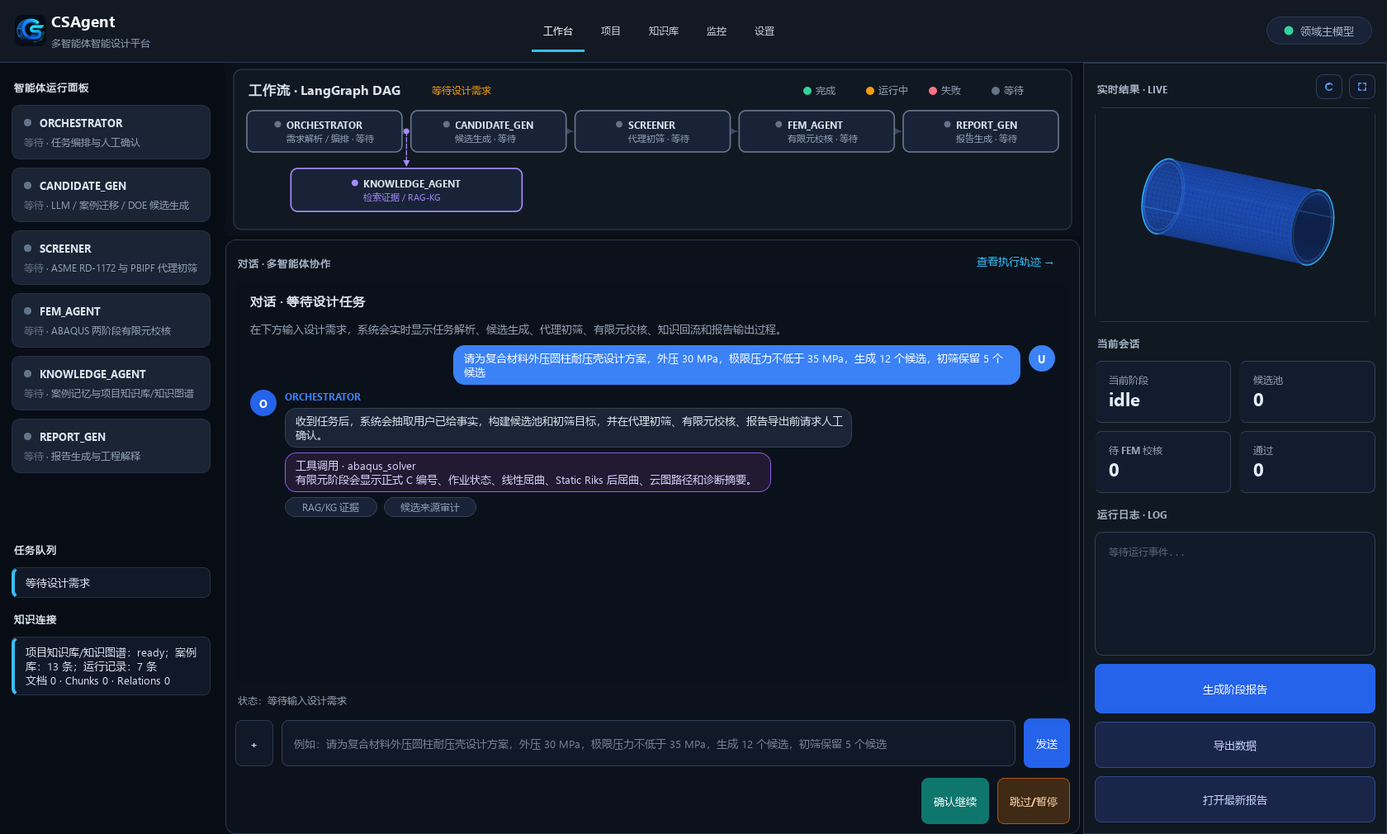
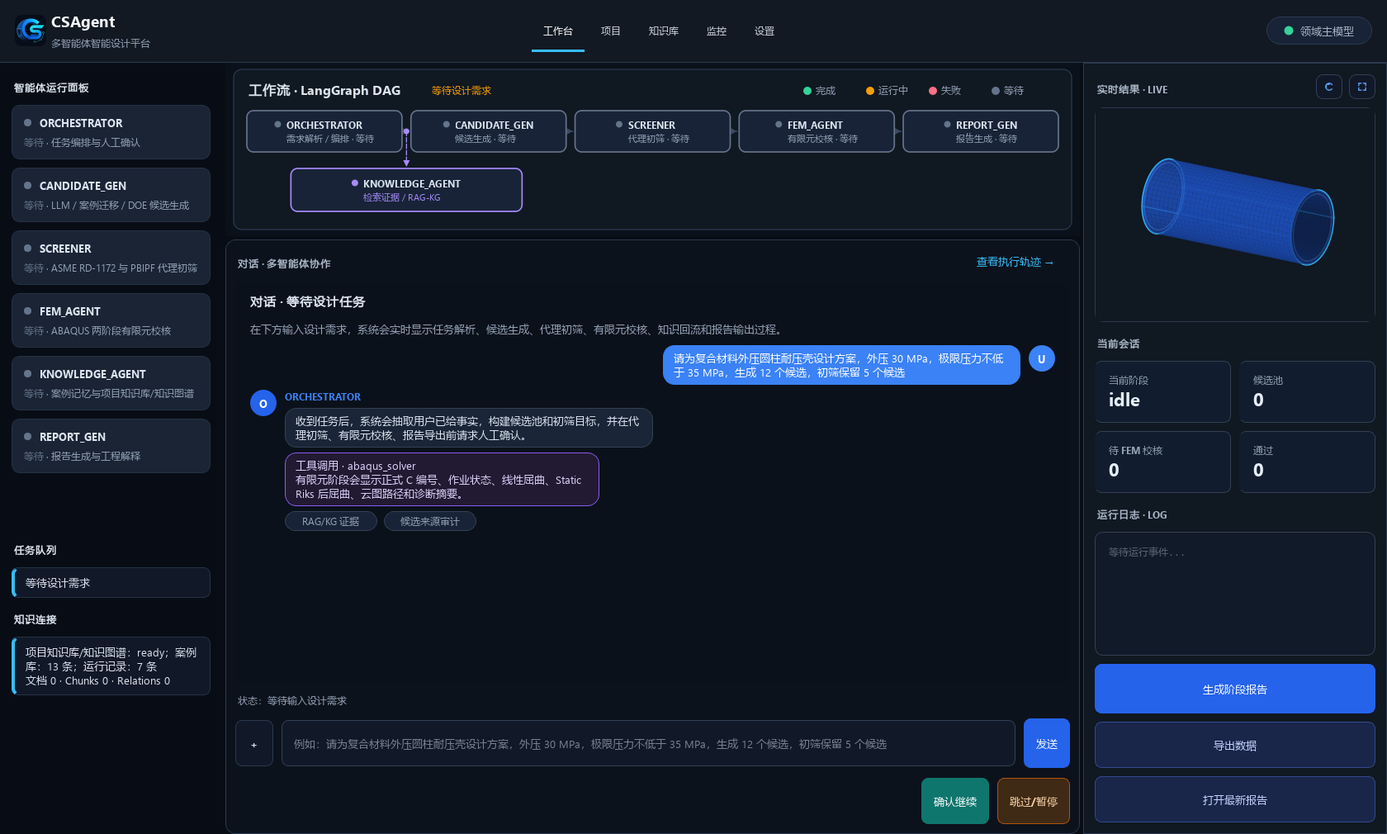
校准知识库状态与工作台展示

diff --git a/gui/knowledge_widget.py b/gui/knowledge_widget.py
@@ -682,12 +682,15 @@ class KnowledgeWidget(QWidget):
         doc_count = int(status.get("document_count", 0) or status.get("structured_document_count", 0) or 0)
         chunk_count = int(status.get("rag_chunk_count", 0) or 0)
         vector_count = int(status.get("vector_chunk_count", 0) or 0)
-        vector_ready = bool(status.get("vector_ready") or vector_count)
+        vector_status = str(status.get("vector_status") or "")
+        vector_ready = bool(status.get("vector_ready")) and vector_status == "success"
         relation_count = int(status.get("kg_relation_count", 0) or 0)
         parser = (status.get("last_ingestion") or {}).get("parser_backend") if isinstance(status.get("last_ingestion"), dict) else ""
         self.store_pill.set_state(f"知识库 {doc_count} 文档", "success" if ready else "pending")
         self.rag_pill.set_state(f"RAG {chunk_count} chunks", "success" if chunk_count else "pending")
-        self.vector_pill.set_state(f"Vector {vector_count} chunks", "success" if vector_ready else "pending")
+        vector_label = f"Vector {vector_count} chunks" if vector_count else f"Vector {vector_status or 'pending'}"
+        vector_state = "success" if vector_ready else ("warning" if vector_status in {"warning", "failed"} else "pending")
+        self.vector_pill.set_state(vector_label, vector_state)
         self.kg_pill.set_state(f"KG {relation_count} relations", "success" if relation_count else "pending")
         self.parser_pill.set_state(str(parser or "解析器待调用"), "success" if parser else "pending")
 
@@ -706,13 +709,18 @@ class KnowledgeWidget(QWidget):
             "<div style='display:grid;grid-template-columns:repeat(2,1fr);gap:8px;'>",
             self._summary_card("资料", f"{status.get('document_count', 0)} 文档"),
             self._summary_card("RAG", f"{status.get('rag_chunk_count', 0)} 文本块"),
-            self._summary_card("Vector", f"{status.get('vector_chunk_count', 0)} 向量块"),
+            self._summary_card(
+                "Vector",
+                f"{status.get('vector_chunk_count', 0)} 向量块",
+                f"后端 {status.get('vector_backend') or '-'}；状态 {status.get('vector_status') or '-'}",
+            ),
             self._summary_card("KG", f"{status.get('kg_entity_count', 0)} 实体 / {status.get('kg_relation_count', 0)} 关系"),
             self._summary_card("分块", f"{chunk_size} token / overlap {overlap}"),
             self._summary_card("案例", f"会话 {len(archive_cases)} / 正式 {len(formal_cases)}"),
             self._summary_card("FEM", f"ODB {odb_count} / 云图 {vis_count}"),
             "</div>",
             f"<p><b>最后入库：</b>{escape(str(last.get('title') or '-'))}；<b>解析器：</b>{escape(str(last.get('parser_backend') or '-'))}</p>",
+            f"<p><b>向量索引：</b>{escape(str(status.get('vector_status') or '-'))}；{escape(str(status.get('vector_message') or '-'))}</p>",
             f"<p><b>检索验证：</b>{escape(str(verification.get('message') or '-'))}</p>",
             f"<p><b>Manifest：</b>{escape(str(status.get('manifest_path') or '-'))}</p>",
         ]
@@ -723,7 +731,7 @@ class KnowledgeWidget(QWidget):
             )
         self.summary_browser.setHtml("".join(html))
 
-    def _summary_card(self, title: str, value: str) -> str:
+    def _summary_card(self, title: str, value: str, detail: str = "") -> str:
         if self.theme == "light":
             border = "#c8d2df"
             background = "#f8fafc"
@@ -734,11 +742,12 @@ class KnowledgeWidget(QWidget):
             background = "#111a28"
             muted = "#64748b"
             foreground = "#dbe4ef"
+        detail_html = f"<br><span style='color:{muted};font-size:11px;'>{escape(detail)}</span>" if detail else ""
         return (
             f"<div style='border:1px solid {border};border-radius:8px;padding:8px 10px;background:{background};'>"
             f"<span style='color:{muted};font-size:12px;'>{escape(title)}</span><br>"
             f"<span style='font-size:18px;font-weight:800;color:{foreground};'>{escape(value)}</span>"
-            "</div>"
+            f"{detail_html}</div>"
         )
 
     def _html_card_style(self) -> str:

diff --git a/core/knowledge_ingestion.py b/core/knowledge_ingestion.py
@@ -492,7 +492,16 @@ class KnowledgeIngestionService:
             retrieval_verification=retrieval_verification,
             steps=steps,
         )
-        self._write_manifest(last_result=result)
+        self._write_manifest(
+            last_result=result,
+            vector_stats={
+                "status": write_stats["vector_status"],
+                "message": write_stats["vector_message"],
+                "detail": write_stats["vector_detail"],
+                "count": write_stats["vector_count"],
+                "backend": write_stats["vector_backend"],
+            },
+        )
         return result
 
     def status(self) -> dict[str, Any]:
@@ -592,8 +601,9 @@ class KnowledgeIngestionService:
                 str(verification.get("detail") or ""),
             ),
         ]
-        self._write_manifest()
+        self._write_manifest(vector_stats=vector_stats)
         manifest = self._load_manifest()
+        manifest.update(self._vector_manifest_fields(vector_stats))
         manifest["pipeline"] = [asdict(step) for step in steps]
         manifest["last_reindex"] = {
             "updated_at": _utc_now(),
@@ -1511,7 +1521,26 @@ class KnowledgeIngestionService:
             result.append(relation)
         return result
 
-    def _write_manifest(self, last_result: IngestionResult | None = None) -> None:
+    def _vector_manifest_fields(self, vector_stats: dict[str, Any] | None = None) -> dict[str, Any]:
+        """返回顶层向量索引状态字段。"""
+
+        stats = vector_stats if isinstance(vector_stats, dict) else {}
+        status = str(stats.get("status") or "pending")
+        count = int(stats.get("count") or 0)
+        return {
+            "vector_chunk_count": count,
+            "vector_ready": bool(status == "success" and count > 0),
+            "vector_status": status,
+            "vector_message": str(stats.get("message") or "等待写入向量索引"),
+            "vector_detail": str(stats.get("detail") or ""),
+            "vector_backend": str(stats.get("backend") or ""),
+        }
+
+    def _write_manifest(
+        self,
+        last_result: IngestionResult | None = None,
+        vector_stats: dict[str, Any] | None = None,
+    ) -> None:
         documents = _read_jsonl(self.documents_path)
         chunks = _read_jsonl(self.chunks_path)
         entities = _read_jsonl(self.entities_path)
@@ -1521,14 +1550,13 @@ class KnowledgeIngestionService:
             **self._base_manifest(),
             "document_count": len(documents),
             "rag_chunk_count": len(chunks),
-            "vector_chunk_count": len(chunks) if self.vector_enabled else 0,
-            "vector_ready": bool(self.vector_enabled and chunks),
             "kg_entity_count": len(entities),
             "kg_relation_count": len(relations),
             "structured_document_count": len(documents),
             "structured_block_count": len(blocks),
             "markdown_document_count": len(list(self.markdown_dir.glob("*.md"))) if self.markdown_dir.exists() else 0,
             "updated_at": _utc_now(),
+            **self._vector_manifest_fields(vector_stats),
         }
         if last_result is not None:
             manifest["last_ingestion"] = {
@@ -1580,6 +1608,10 @@ class KnowledgeIngestionService:
             "rag_chunk_count": 0,
             "vector_chunk_count": 0,
             "vector_ready": False,
+            "vector_status": "pending",
+            "vector_message": "等待写入向量索引",
+            "vector_detail": "",
+            "vector_backend": "",
             "kg_entity_count": 0,
             "kg_relation_count": 0,
             "structured_document_count": 0,

diff --git a/tests/test_knowledge_ingestion.py b/tests/test_knowledge_ingestion.py
@@ -16,6 +16,10 @@ def test_runtime_knowledge_empty_status_exposes_pipeline_contract(tmp_path) -> N
     assert status["rag_chunk_count"] == 0
     assert status["vector_chunk_count"] == 0
     assert status["vector_ready"] is False
+    assert status["vector_status"] == "pending"
+    assert status["vector_message"] == "等待写入向量索引"
+    assert status["vector_detail"] == ""
+    assert status["vector_backend"] == ""
     assert status["kg_entity_count"] == 0
     assert status["kg_relation_count"] == 0
     assert status["chunk_token_size"] == 64
@@ -82,6 +86,38 @@ def test_runtime_knowledge_ingestion_builds_chunks_kg_vector_index_and_dedupes(t
     relations = [json.loads(line) for line in service.relations_path.read_text(encoding="utf-8").splitlines() if line.strip()]
     chunk_ids = {item["chunk_id"] for item in chunks}
     assert all(item["evidence_chunk_id"] in chunk_ids for item in relations)
+
+
+def test_runtime_knowledge_ingestion_marks_vector_status_warning_when_backend_fails(tmp_path, monkeypatch) -> None:
+    monkeypatch.setenv("CSDM_cph_USE_HASH_EMBEDDING", "1")
+
+    class BrokenRAGEngine:
+        def __init__(self, *args, **kwargs) -> None:
+            raise RuntimeError("vector backend unavailable")
+
+    source = tmp_path / "pressure_hull_vector_failure.md"
+    source.write_text(
+        "\n\n".join(
+            [
+                "# 外压耐压壳向量状态",
+                "T700 composite pressure hull under external pressure uses ASME RD-1172 for buckling checks.",
+                "PBIPF and Abaqus Riks provide ultimate pressure verification.",
+            ]
+        ),
+        encoding="utf-8",
+    )
+
+    monkeypatch.setattr("core.knowledge_ingestion.RAGEngine", BrokenRAGEngine)
+    service = KnowledgeIngestionService(base_dir=tmp_path / "knowledge", chunk_token_size=48, chunk_overlap_tokens=8)
+    result = service.ingest_file(source)
+
+    manifest = json.loads(service.manifest_path.read_text(encoding="utf-8"))
+    assert result.success
+    assert manifest["vector_status"] == "warning"
+    assert manifest["vector_ready"] is False
+    assert manifest["vector_chunk_count"] == 0
+    assert manifest["vector_backend"] == "unavailable"
+    assert manifest["vector_message"] == "向量索引写入失败"
 
 
 def test_runtime_knowledge_ingestion_emits_step_progress(tmp_path, monkeypatch) -> None:

diff --git a/gui/chat_widget.py b/gui/chat_widget.py
@@ -166,18 +166,45 @@ class ChatWidget(QWidget):
         target_min = min(max(min_width, 180), target_max)
         return target_max, target_min
 
+    @staticmethod
+    def _is_cjk(char: str) -> bool:
+        return "\u3400" <= char <= "\u9fff"
+
+    def _display_units(self, text: str) -> float:
+        units = 0.0
+        for char in text:
+            if char.isspace():
+                units += 0.25
+            elif self._is_cjk(char):
+                units += 1.0
+            elif char.isascii():
+                units += 0.58
+            else:
+                units += 0.85
+        return units
+
+    def _token_width(self, token: str) -> int:
+        metrics = self.fontMetrics()
+        if any(self._is_cjk(char) for char in token):
+            cjk_unit = max(metrics.horizontalAdvance("汉"), metrics.averageCharWidth())
+            return min(metrics.horizontalAdvance(token), int(cjk_unit * 10))
+        return metrics.horizontalAdvance(token)
+
     def _content_width(self, text: str, target_max: int, target_min: int) -> int:
         metrics = self.fontMetrics()
         value = str(text)
-        lines = value.splitlines() or [value]
-        longest_line = max((metrics.horizontalAdvance(line) for line in lines), default=0)
         separators = "，。；;、,，：:（）()[]【】"
         token_source = value
         for separator in separators:
             token_source = token_source.replace(separator, " ")
         tokens = [item for item in token_source.split() if item]
-        longest_token = max((metrics.horizontalAdvance(item) for item in tokens), default=0)
-        natural = max(longest_line, longest_token) + 30
+        longest_token = max((self._token_width(item) for item in tokens), default=0)
+        units_by_line = [self._display_units(line) for line in value.splitlines() if line.strip()]
+        display_units = max(units_by_line, default=self._display_units(value))
+        cjk_unit = max(metrics.horizontalAdvance("汉"), metrics.averageCharWidth())
+        line_units = min(56, max(14, int(display_units * 0.62)))
+        estimated_line = int(line_units * cjk_unit + 30)
+        natural = max(estimated_line, longest_token + 30)
         if natural >= target_max:
             return target_max
         return max(target_min, min(target_max, natural))

diff --git a/tests/test_knowledge_widget.py b/tests/test_knowledge_widget.py
@@ -27,6 +27,10 @@ class FakeKnowledge:
             "rag_chunk_count": 9,
             "vector_ready": True,
             "vector_chunk_count": 9,
+            "vector_status": "success",
+            "vector_message": "向量索引写入 9 个文本块",
+            "vector_detail": "collection=csdm_cph_project_knowledge，backend=hash_embedding",
+            "vector_backend": "hash_embedding",
             "kg_entity_count": 7,
             "kg_relation_count": 12,
             "manifest_path": "knowledge/runtime/manifest.json",
@@ -139,6 +143,36 @@ def test_knowledge_widget_renders_runtime_pipeline_and_evidence(monkeypatch, tmp
         assert widget.document_table.rowCount() == 1
         assert len(widget.graph_view.relations) == 1
         assert widget.graph_view.relations[0]["source"] == "Initial Imperfection"
+    finally:
+        widget.close()
+        app.processEvents()
+
+
+def test_knowledge_widget_vector_pill_follows_actual_vector_status(monkeypatch, tmp_path) -> None:
+    global _DOCS_PATH
+    _DOCS_PATH = tmp_path / "documents.jsonl"
+    _DOCS_PATH.write_text("", encoding="utf-8")
+
+    monkeypatch.setattr("gui.knowledge_widget.DomainKnowledgeBase", FakeKnowledge)
+    monkeypatch.setattr("gui.knowledge_widget.KnowledgeIngestionService", FakeIngestionService)
+
+    app = _app()
+    widget = KnowledgeWidget()
+    try:
+        widget._update_status_pills(
+            {
+                "ready": True,
+                "document_count": 1,
+                "rag_chunk_count": 4,
+                "vector_ready": False,
+                "vector_chunk_count": 0,
+                "vector_status": "warning",
+                "kg_relation_count": 2,
+            }
+        )
+
+        assert widget.vector_pill.text == "Vector warning"
+        assert widget.vector_pill.status == "warning"
     finally:
         widget.close()
         app.processEvents()

diff --git a/scripts/release_audit.py b/scripts/release_audit.py
@@ -214,6 +214,11 @@ class ReleaseAudit:
             "document_count",
             "rag_chunk_count",
             "vector_chunk_count",
+            "vector_ready",
+            "vector_status",
+            "vector_message",
+            "vector_detail",
+            "vector_backend",
             "kg_entity_count",
             "kg_relation_count",
             "chunk_token_size",

diff --git a/tests/test_case_assets.py b/tests/test_case_assets.py
@@ -62,5 +62,5 @@ def test_case_library_numbering_and_fem_artifacts_are_consistent() -> None:
 def test_case_library_contains_no_mojibake_placeholders() -> None:
     for path, _case_record in _load_cases():
         text = path.read_text(encoding="utf-8")
-        assert "????" not in text
+        assert "?" * 4 not in text
         assert "\ufffd" not in text

diff --git a/docs/接口约定.md b/docs/接口约定.md
@@ -79,8 +79,13 @@
 - `vector_chroma_dir`: 项目知识向量索引目录，当前为 `knowledge/chroma_db`
 - `vector_collection_name`: 项目知识向量 collection，当前为 `csdm_cph_project_knowledge`
 - `vector_top_k_multiplier`: 向量候选召回倍数，融合去重后再截断为 `top_k`
+- `vector_ready`: 向量 collection 实际写入成功且写入数量大于 0 时为 `true`
+- `vector_status`: 向量索引真实状态，取值为 `pending`、`success`、`warning` 或 `failed`
+- `vector_message`: 面向 GUI 和审计的向量索引状态摘要
+- `vector_detail`: 向量后端、目录或失败原因摘要
+- `vector_backend`: 实际使用的嵌入后端，失败时为 `unavailable`
 
-资料入库入口为 `core.knowledge_ingestion.KnowledgeIngestionService.ingest_file(path)`。该接口接收用户上传资料路径，返回 `IngestionResult`，字段包含 `document_id`、`parser_backend`、`markdown_path`、`chunk_count`、`entity_count`、`relation_count`、`duplicate_chunk_count`、`retrieval_verification` 和五阶段流水线状态。五个阶段为 MinerU / Docling 文档解析、语义分块、BGE-M3 向量化索引、Neo4j 实体/关系抽取、检索验证 / 证据引用。文件类型契约由 `SUPPORTED_INGEST_SUFFIXES` 定义，GUI 文件选择器使用同文件的 `SUPPORTED_QT_FILE_FILTER`，避免 GUI 与解析器支持范围漂移。PDF、DOCX、PPTX 和图片优先调用 MinerU / Docling；外部解析器不可用时，PDF/DOCX/PPTX 尝试文本层解析，图片保留资料元数据。Markdown、文本、JSON/YAML/TOML/INI、CSV、TSV、XLSX/XLSM、Abaqus 输入、子程序、日志、状态和消息文件由本项目解析器转换为 Markdown。ODB、SIM、CAE 等工程二进制文件只写入可检索元数据，内部场变量和云图由 FEM 可视化链路读取。文档编号由文件 SHA256 生成；同一文件重复入库替换同一文档记录。RAG 文本块按 `content_hash` 去重，`chunk_token_size`、`chunk_overlap_tokens` 和 `min_chunk_tokens` 共同控制文本块窗口、重叠上下文和小块合并；去重后的 chunk 写入 `rag_chunks.jsonl`，并同步重建项目知识向量 collection；KG 关系只指向去重后保留的 chunk。检索验证阶段检查当前资料 chunk 是否可作为命中证据、图谱关系引用是否指向有效 chunk，并把 `evidence_chunks`、`evidence_relations`、命中数和异常引用列表写入 `retrieval_verification`。
+资料入库入口为 `core.knowledge_ingestion.KnowledgeIngestionService.ingest_file(path)`。该接口接收用户上传资料路径，返回 `IngestionResult`，字段包含 `document_id`、`parser_backend`、`markdown_path`、`chunk_count`、`entity_count`、`relation_count`、`duplicate_chunk_count`、`retrieval_verification` 和五阶段流水线状态。五个阶段为 MinerU / Docling 文档解析、语义分块、BGE-M3 向量化索引、Neo4j 实体/关系抽取、检索验证 / 证据引用。文件类型契约由 `SUPPORTED_INGEST_SUFFIXES` 定义，GUI 文件选择器使用同文件的 `SUPPORTED_QT_FILE_FILTER`，避免 GUI 与解析器支持范围漂移。PDF、DOCX、PPTX 和图片优先调用 MinerU / Docling；外部解析器不可用时，PDF/DOCX/PPTX 尝试文本层解析，图片保留资料元数据。Markdown、文本、JSON/YAML/TOML/INI、CSV、TSV、XLSX/XLSM、Abaqus 输入、子程序、日志、状态和消息文件由本项目解析器转换为 Markdown。ODB、SIM、CAE 等工程二进制文件只写入可检索元数据，内部场变量和云图由 FEM 可视化链路读取。文档编号由文件 SHA256 生成；同一文件重复入库替换同一文档记录。RAG 文本块按 `content_hash` 去重，`chunk_token_size`、`chunk_overlap_tokens` 和 `min_chunk_tokens` 共同控制文本块窗口、重叠上下文和小块合并；去重后的 chunk 写入 `rag_chunks.jsonl`，并同步重建项目知识向量 collection；`vector_ready` 由实际向量写入结果驱动，向量后端失败时保留文本和 KG 检索但 GUI 不显示绿色向量状态；KG 关系只指向去重后保留的 chunk。检索验证阶段检查当前资料 chunk 是否可作为命中证据、图谱关系引用是否指向有效 chunk，并把 `evidence_chunks`、`evidence_relations`、命中数和异常引用列表写入 `retrieval_verification`。
 
 知识库维护入口为 `KnowledgeIngestionService.rebuild_indexes()` 和 `KnowledgeIngestionService.export_snapshot(path=None)`。`rebuild_indexes()` 复用当前已解析文档、结构化块和去重 RAG 文本块，重建向量 collection、实体关系、KG 统计、manifest 和最近检索验证状态，不重新解析原始文件。`export_snapshot()` 默认写入 `knowledge/runtime/snapshots/knowledge_snapshot_<timestamp>.json`，内容包含 manifest、文档、结构化块、RAG 文本块、实体、关系和 KG 统计。GUI “知识库”页的“重建索引”和“导出快照”按钮分别调用这两个入口；按钮状态和流水线状态由后台 Worker 更新。
 

diff --git a/docs/项目全流程梳理.md b/docs/项目全流程梳理.md
@@ -248,7 +248,7 @@ GUI 报告预览不修改报告内容，不调用 LLM，只显示 `ReportGenAgen
 
 用户在 GUI “知识库”页上传资料或批量选择资料后，`KnowledgeIngestionService` 将资料复制到 `uploads/` 并计算文件 SHA256。文档编号使用 `DOC_<sha256前12位>`，同一资料重复入库会替换同一文档记录，不生成虚假新编号。PDF、DOCX、PPTX 和图片优先调用 MinerU，失败后尝试 Docling；PDF、DOCX、PPTX 继续尝试文本层解析，图片在外部解析器不可用时保留图片元数据。文本、Markdown、JSON/YAML/TOML/INI、CSV、TSV、XLSX/XLSM、Abaqus 输入、子程序、日志、状态和消息文件由本项目解析器转换为 Markdown。ODB、SIM、CAE 等工程二进制文件进入可检索元数据索引，内部场变量和云图仍由有限元结果可视化链路读取。GUI 文件选择器使用 `core.knowledge_ingestion.SUPPORTED_QT_FILE_FILTER`，与核心解析器支持类型保持同源。入库服务在文档解析、语义分块、向量化索引、实体/关系抽取和检索验证 / 证据引用阶段发出进度事件；后台 Worker 将事件转发给 GUI，知识库页的流水线卡片按真实阶段实时显示运行、成功、警告和失败状态。
 
-解析后的 Markdown 进入结构化文本块生成。RAG 分块使用 `config/app_config.yaml` 中的 `chunk_token_size`、`chunk_overlap_tokens` 和 `min_chunk_tokens`；token 计数优先使用 `tiktoken`，不可用时使用中英文混合估算。完全相同的 RAG 文本块按 `content_hash` 去重；去重后的 chunk 写入 JSONL 文本索引，并同步写入 ChromaDB 项目知识 collection。向量索引默认使用 `rag.embedding_model=BAAI/bge-m3` 和本地缓存；本地模型不可用且 `allow_hash_fallback=true` 时使用哈希嵌入回退，流水线状态会记录实际后端。KG 使用领域词典抽取材料、结构、失效模式、制造工艺、公式和验证方法实体，写出 `entities.jsonl`、`relations.jsonl` 和 `kg_stats.json`。新资料入库时，已有资料的 RAG 文本块、实体和关系继续保留；同一资料重复入库时按文档编号替换该资料旧记录，避免重复堆积。检索验证阶段会构造当前资料的工程检索词，检查当前资料 chunk 能进入命中结果、图谱关系的 `evidence_chunk_id` 指向去重后有效 chunk，并把 `retrieval_verification`、证据 chunk 样本和关系样本写入 manifest。尚未入库任何资料时，知识服务仍返回完整状态契约：0 文档、0 chunk、0 实体关系、分块 token、overlap、`content_hash` 去重字段和五阶段 pending 流水线，供 GUI 和发布审计准确展示空库状态。
+解析后的 Markdown 进入结构化文本块生成。RAG 分块使用 `config/app_config.yaml` 中的 `chunk_token_size`、`chunk_overlap_tokens` 和 `min_chunk_tokens`；token 计数优先使用 `tiktoken`，不可用时使用中英文混合估算。完全相同的 RAG 文本块按 `content_hash` 去重；去重后的 chunk 写入 JSONL 文本索引，并同步写入 ChromaDB 项目知识 collection。向量索引默认使用 `rag.embedding_model=BAAI/bge-m3` 和本地缓存；本地模型不可用且 `allow_hash_fallback=true` 时使用哈希嵌入回退，流水线状态会记录实际后端。`vector_ready` 只在实际 collection 写入成功且写入数量大于 0 时为真；向量后端不可用时保留 JSONL/BM25 和 KG 检索，manifest 写入 `vector_status=warning`、`vector_backend=unavailable` 和失败摘要，GUI 以黄色状态灯显示。KG 使用领域词典抽取材料、结构、失效模式、制造工艺、公式和验证方法实体，写出 `entities.jsonl`、`relations.jsonl` 和 `kg_stats.json`。新资料入库时，已有资料的 RAG 文本块、实体和关系继续保留；同一资料重复入库时按文档编号替换该资料旧记录，避免重复堆积。检索验证阶段会构造当前资料的工程检索词，检查当前资料 chunk 能进入命中结果、图谱关系的 `evidence_chunk_id` 指向去重后有效 chunk，并把 `retrieval_verification`、证据 chunk 样本和关系样本写入 manifest。尚未入库任何资料时，知识服务仍返回完整状态契约：0 文档、0 chunk、0 实体关系、分块 token、overlap、`content_hash` 去重字段、向量状态字段和五阶段 pending 流水线，供 GUI 和发布审计准确展示空库状态。
 
 GUI 的“知识库”页提供索引重建入口。索引重建只读取已解析文档、结构化块、去重 RAG 文本块和当前 KG 记录，重建 Chroma 向量 collection、实体关系、KG 统计、manifest 和最近检索验证状态，不重新解析原始文件。快照导出入口写入 `knowledge/runtime/snapshots/knowledge_snapshot_<timestamp>.json`，内容包含 manifest、文档、结构化块、RAG 文本块、实体、关系和 KG 统计。
 

diff --git a/docs/项目状态.md b/docs/项目状态.md
@@ -51,7 +51,7 @@
 | 知识图谱关系 | `knowledge/runtime/kg/relations.jsonl` |
 | 状态清单 | `knowledge/runtime/manifest.json` |
 
-GUI “知识库”页支持上传资料、批量解析、后台入库、索引重建和快照导出。入库流程为 MinerU / Docling 文档解析、语义分块、BGE-M3/Chroma 向量化索引、实体关系抽取和检索验证 / 证据引用；`KnowledgeIngestionService` 在五个阶段发出进度事件，后台 Worker 转发给 GUI，页面以绿、黄、红状态灯实时展示每一步状态和错误信息，并单独显示 RAG、Vector、KG 数量。空知识库状态也暴露 0 文档、0 chunk、0 实体关系、分块 token、overlap、去重字段和五阶段待运行流水线，用于 GUI 状态灯和发布审计。文件选择器与核心解析器共用 `SUPPORTED_QT_FILE_FILTER`，当前覆盖 PDF、DOCX、PPTX、图片、Markdown、文本、JSON/YAML/TOML/INI、CSV、TSV、XLSX/XLSM、Abaqus 输入、子程序、日志、状态、消息和 ODB/SIM/CAE 工程二进制文件。PDF、DOCX、PPTX 和图片优先走 MinerU / Docling；外部解析器不可用时，PDF/DOCX/PPTX 尝试文本层解析，图片保留元数据；ODB/SIM/CAE 保留可检索元数据，内部场变量和云图由有限元结果可视化链路读取。新资料入库会与当前 `rag_chunks.jsonl`、Chroma collection、`entities.jsonl` 和 `relations.jsonl` 合并；同一资料按文档 SHA 编号替换旧记录，不覆盖其他资料。检索验证会确认当前资料 chunk 可命中、图谱关系引用有效 chunk，并把证据样本写入 manifest。索引重建复用已解析文档和去重文本块，重建向量 collection、实体关系、KG 统计和检索验证状态。快照导出写入 `knowledge/runtime/snapshots/knowledge_snapshot_<timestamp>.json`，包含 manifest、文档、结构化块、RAG 文本块、实体、关系和 KG 统计。GUI 入库链路覆盖上传文件、后台解析、token 分块、overlap、去重、向量索引、KG 抽取、检索验证、状态灯刷新、文档表刷新、知识图谱可视化和证据预览。证据预览融合 JSONL/BM25、向量 collection 和知识图谱关系，用于 LLM 工程上下文和人工核查来源，不参与代理公式计算、排序、有限元校核或案例编号。
+GUI “知识库”页支持上传资料、批量解析、后台入库、索引重建和快照导出。入库流程为 MinerU / Docling 文档解析、语义分块、BGE-M3/Chroma 向量化索引、实体关系抽取和检索验证 / 证据引用；`KnowledgeIngestionService` 在五个阶段发出进度事件，后台 Worker 转发给 GUI，页面以绿、黄、红状态灯实时展示每一步状态和错误信息，并单独显示 RAG、Vector、KG 数量。Vector 绿色状态只代表向量 collection 实际写入成功，向量后端不可用时保留 JSONL/BM25 和 KG 检索并显示黄色状态。空知识库状态也暴露 0 文档、0 chunk、0 实体关系、分块 token、overlap、去重字段、向量状态字段和五阶段待运行流水线，用于 GUI 状态灯和发布审计。文件选择器与核心解析器共用 `SUPPORTED_QT_FILE_FILTER`，当前覆盖 PDF、DOCX、PPTX、图片、Markdown、文本、JSON/YAML/TOML/INI、CSV、TSV、XLSX/XLSM、Abaqus 输入、子程序、日志、状态、消息和 ODB/SIM/CAE 工程二进制文件。PDF、DOCX、PPTX 和图片优先走 MinerU / Docling；外部解析器不可用时，PDF/DOCX/PPTX 尝试文本层解析，图片保留元数据；ODB/SIM/CAE 保留可检索元数据，内部场变量和云图由有限元结果可视化链路读取。新资料入库会与当前 `rag_chunks.jsonl`、Chroma collection、`entities.jsonl` 和 `relations.jsonl` 合并；同一资料按文档 SHA 编号替换旧记录，不覆盖其他资料。检索验证会确认当前资料 chunk 可命中、图谱关系引用有效 chunk，并把证据样本写入 manifest。索引重建复用已解析文档和去重文本块，重建向量 collection、实体关系、KG 统计和检索验证状态。快照导出写入 `knowledge/runtime/snapshots/knowledge_snapshot_<timestamp>.json`，包含 manifest、文档、结构化块、RAG 文本块、实体、关系和 KG 统计。GUI 入库链路覆盖上传文件、后台解析、token 分块、overlap、去重、向量索引、KG 抽取、检索验证、状态灯刷新、文档表刷新、知识图谱可视化和证据预览。证据预览融合 JSONL/BM25、向量 collection 和知识图谱关系，用于 LLM 工程上下文和人工核查来源，不参与代理公式计算、排序、有限元校核或案例编号。
 
 ## 当前参数域
 

diff --git a/README.md b/README.md
@@ -86,7 +86,7 @@ P_PBIPF = d1 * lg(Q) * t / R
 - `knowledge/runtime/kg/relations.jsonl`：知识图谱关系
 - `knowledge/runtime/manifest.json`：文档数、chunk 数、向量索引数、实体关系数、检索验证结果、分块参数、去重键和最近一次入库流水线状态
 
-资料入库流程为“MinerU / Docling 文档解析 -> 语义分块 -> BGE-M3 向量化索引 -> Neo4j 实体/关系抽取 -> 检索验证 / 证据引用”。PDF、DOCX、PPTX 和图片优先调用 MinerU，失败后尝试 Docling；文本、Markdown、CSV、TSV、Excel 和工程文本使用本项目解析器。RAG 分块使用 `chunk_token_size`、`chunk_overlap_tokens` 和 `min_chunk_tokens` 控制 token 窗口、重叠上下文和小块合并；完全相同的 chunk 按 `content_hash` 去重。去重后的 chunk 同步写入 `knowledge/runtime/rag/rag_chunks.jsonl` 和 `knowledge/chroma_db` 中的 `csdm_cph_project_knowledge` collection。向量后端按 `rag.embedding_model=BAAI/bge-m3` 读取本地缓存；本地模型不可用且配置允许时使用哈希嵌入回退并在流水线状态中记录。KG 写出实体、关系和统计文件；新资料入库时保留其他资料的 RAG chunk、实体和关系，并按文档编号替换同一资料的旧记录。检索验证会确认当前资料的文本块可命中、图谱关系引用有效 chunk，并把证据样本写入 manifest。
+资料入库流程为“MinerU / Docling 文档解析 -> 语义分块 -> BGE-M3 向量化索引 -> Neo4j 实体/关系抽取 -> 检索验证 / 证据引用”。PDF、DOCX、PPTX 和图片优先调用 MinerU，失败后尝试 Docling；文本、Markdown、CSV、TSV、Excel 和工程文本使用本项目解析器。RAG 分块使用 `chunk_token_size`、`chunk_overlap_tokens` 和 `min_chunk_tokens` 控制 token 窗口、重叠上下文和小块合并；完全相同的 chunk 按 `content_hash` 去重。去重后的 chunk 同步写入 `knowledge/runtime/rag/rag_chunks.jsonl` 和 `knowledge/chroma_db` 中的 `csdm_cph_project_knowledge` collection。向量后端按 `rag.embedding_model=BAAI/bge-m3` 读取本地缓存；本地模型不可用且配置允许时使用哈希嵌入回退并在流水线状态中记录。`vector_ready` 只在向量 collection 实际写入成功且写入数量大于 0 时为真；向量后端不可用时保留 JSONL/BM25 和 KG 检索，GUI 以黄色状态灯显示。KG 写出实体、关系和统计文件；新资料入库时保留其他资料的 RAG chunk、实体和关系，并按文档编号替换同一资料的旧记录。检索验证会确认当前资料的文本块可命中、图谱关系引用有效 chunk，并把证据样本写入 manifest。
 
 空知识库也是有效运行状态：GUI 和审计会显示 0 文档、0 chunk、0 实体关系、分块 token、overlap、`content_hash` 去重字段和五阶段待运行流水线。
 
